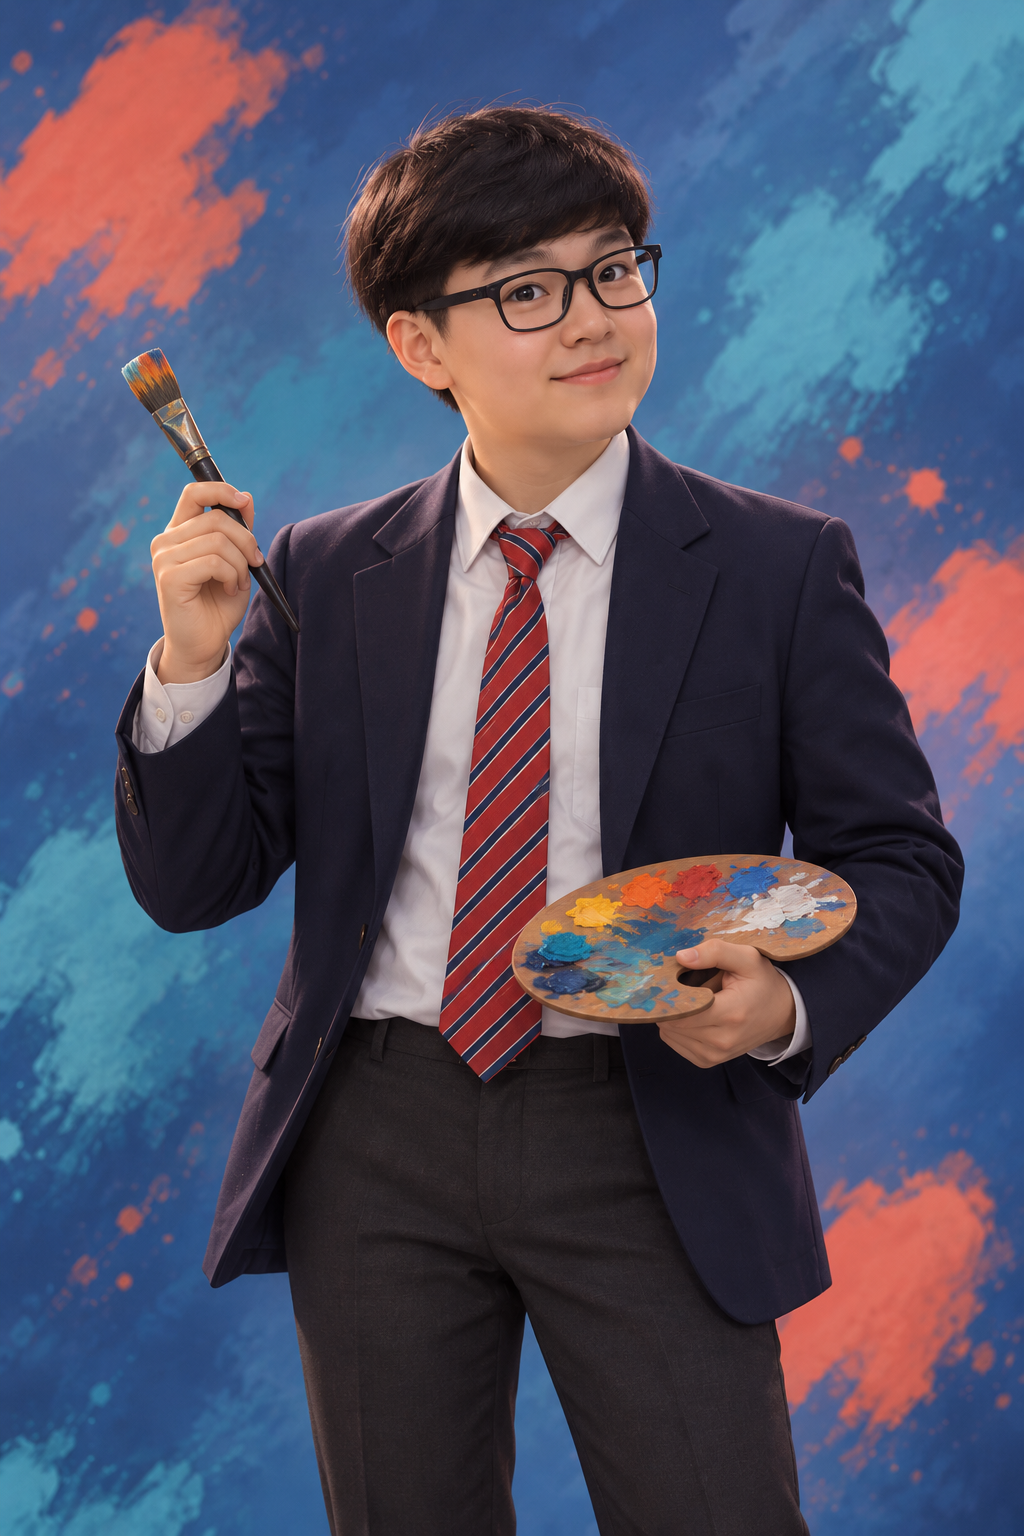
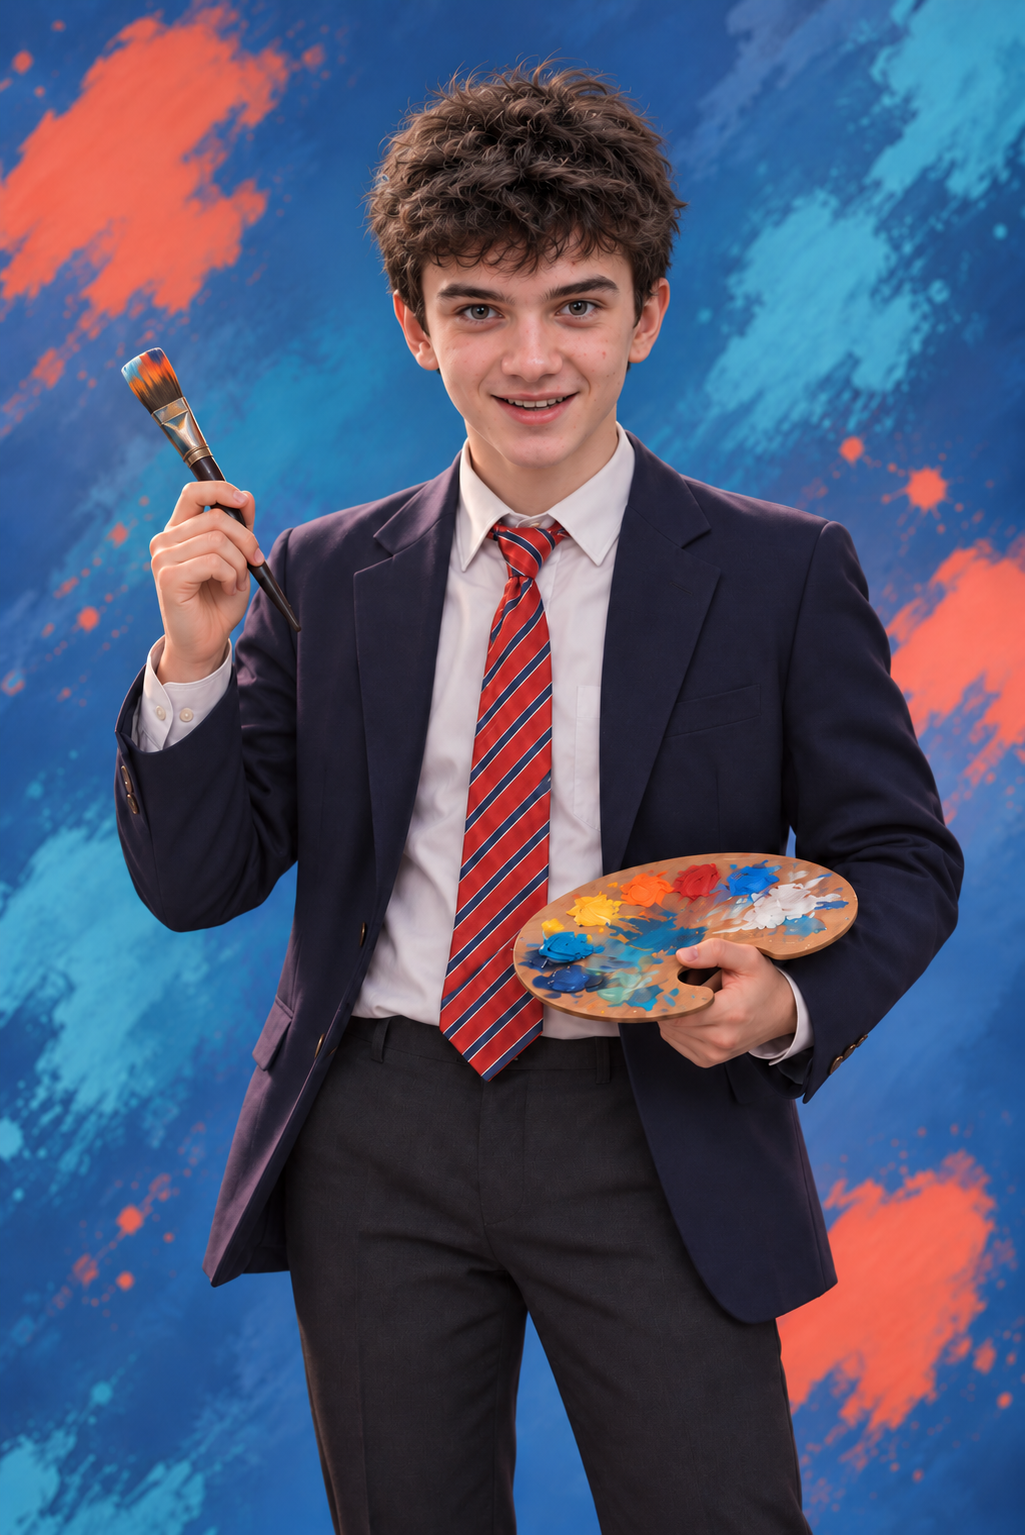
new artist card

diff --git a/tower/tests/test_catalog.py b/tower/tests/test_catalog.py
@@ -28,7 +28,7 @@ class CardPresentationTests(SimpleTestCase):
                 self.assertEqual(html.count('<svg '), count)
                 self.assertIn('class="collection-card__portrait"', html)
                 self.assertIn('class="collection-card__frame"', html)
-                self.assertIn(f'https://images.example.org/chars/{card["id"]}.png', html)
+                self.assertIn(f'https://images.example.org/chars/{card["id"]}', html)
                 self.assertIsNotNone(finders.find(f"tower/frames/{rarity}.webp"))
 
     def test_all_portrait_names_are_unique_and_manifest_has_portrait_aspect(self):
